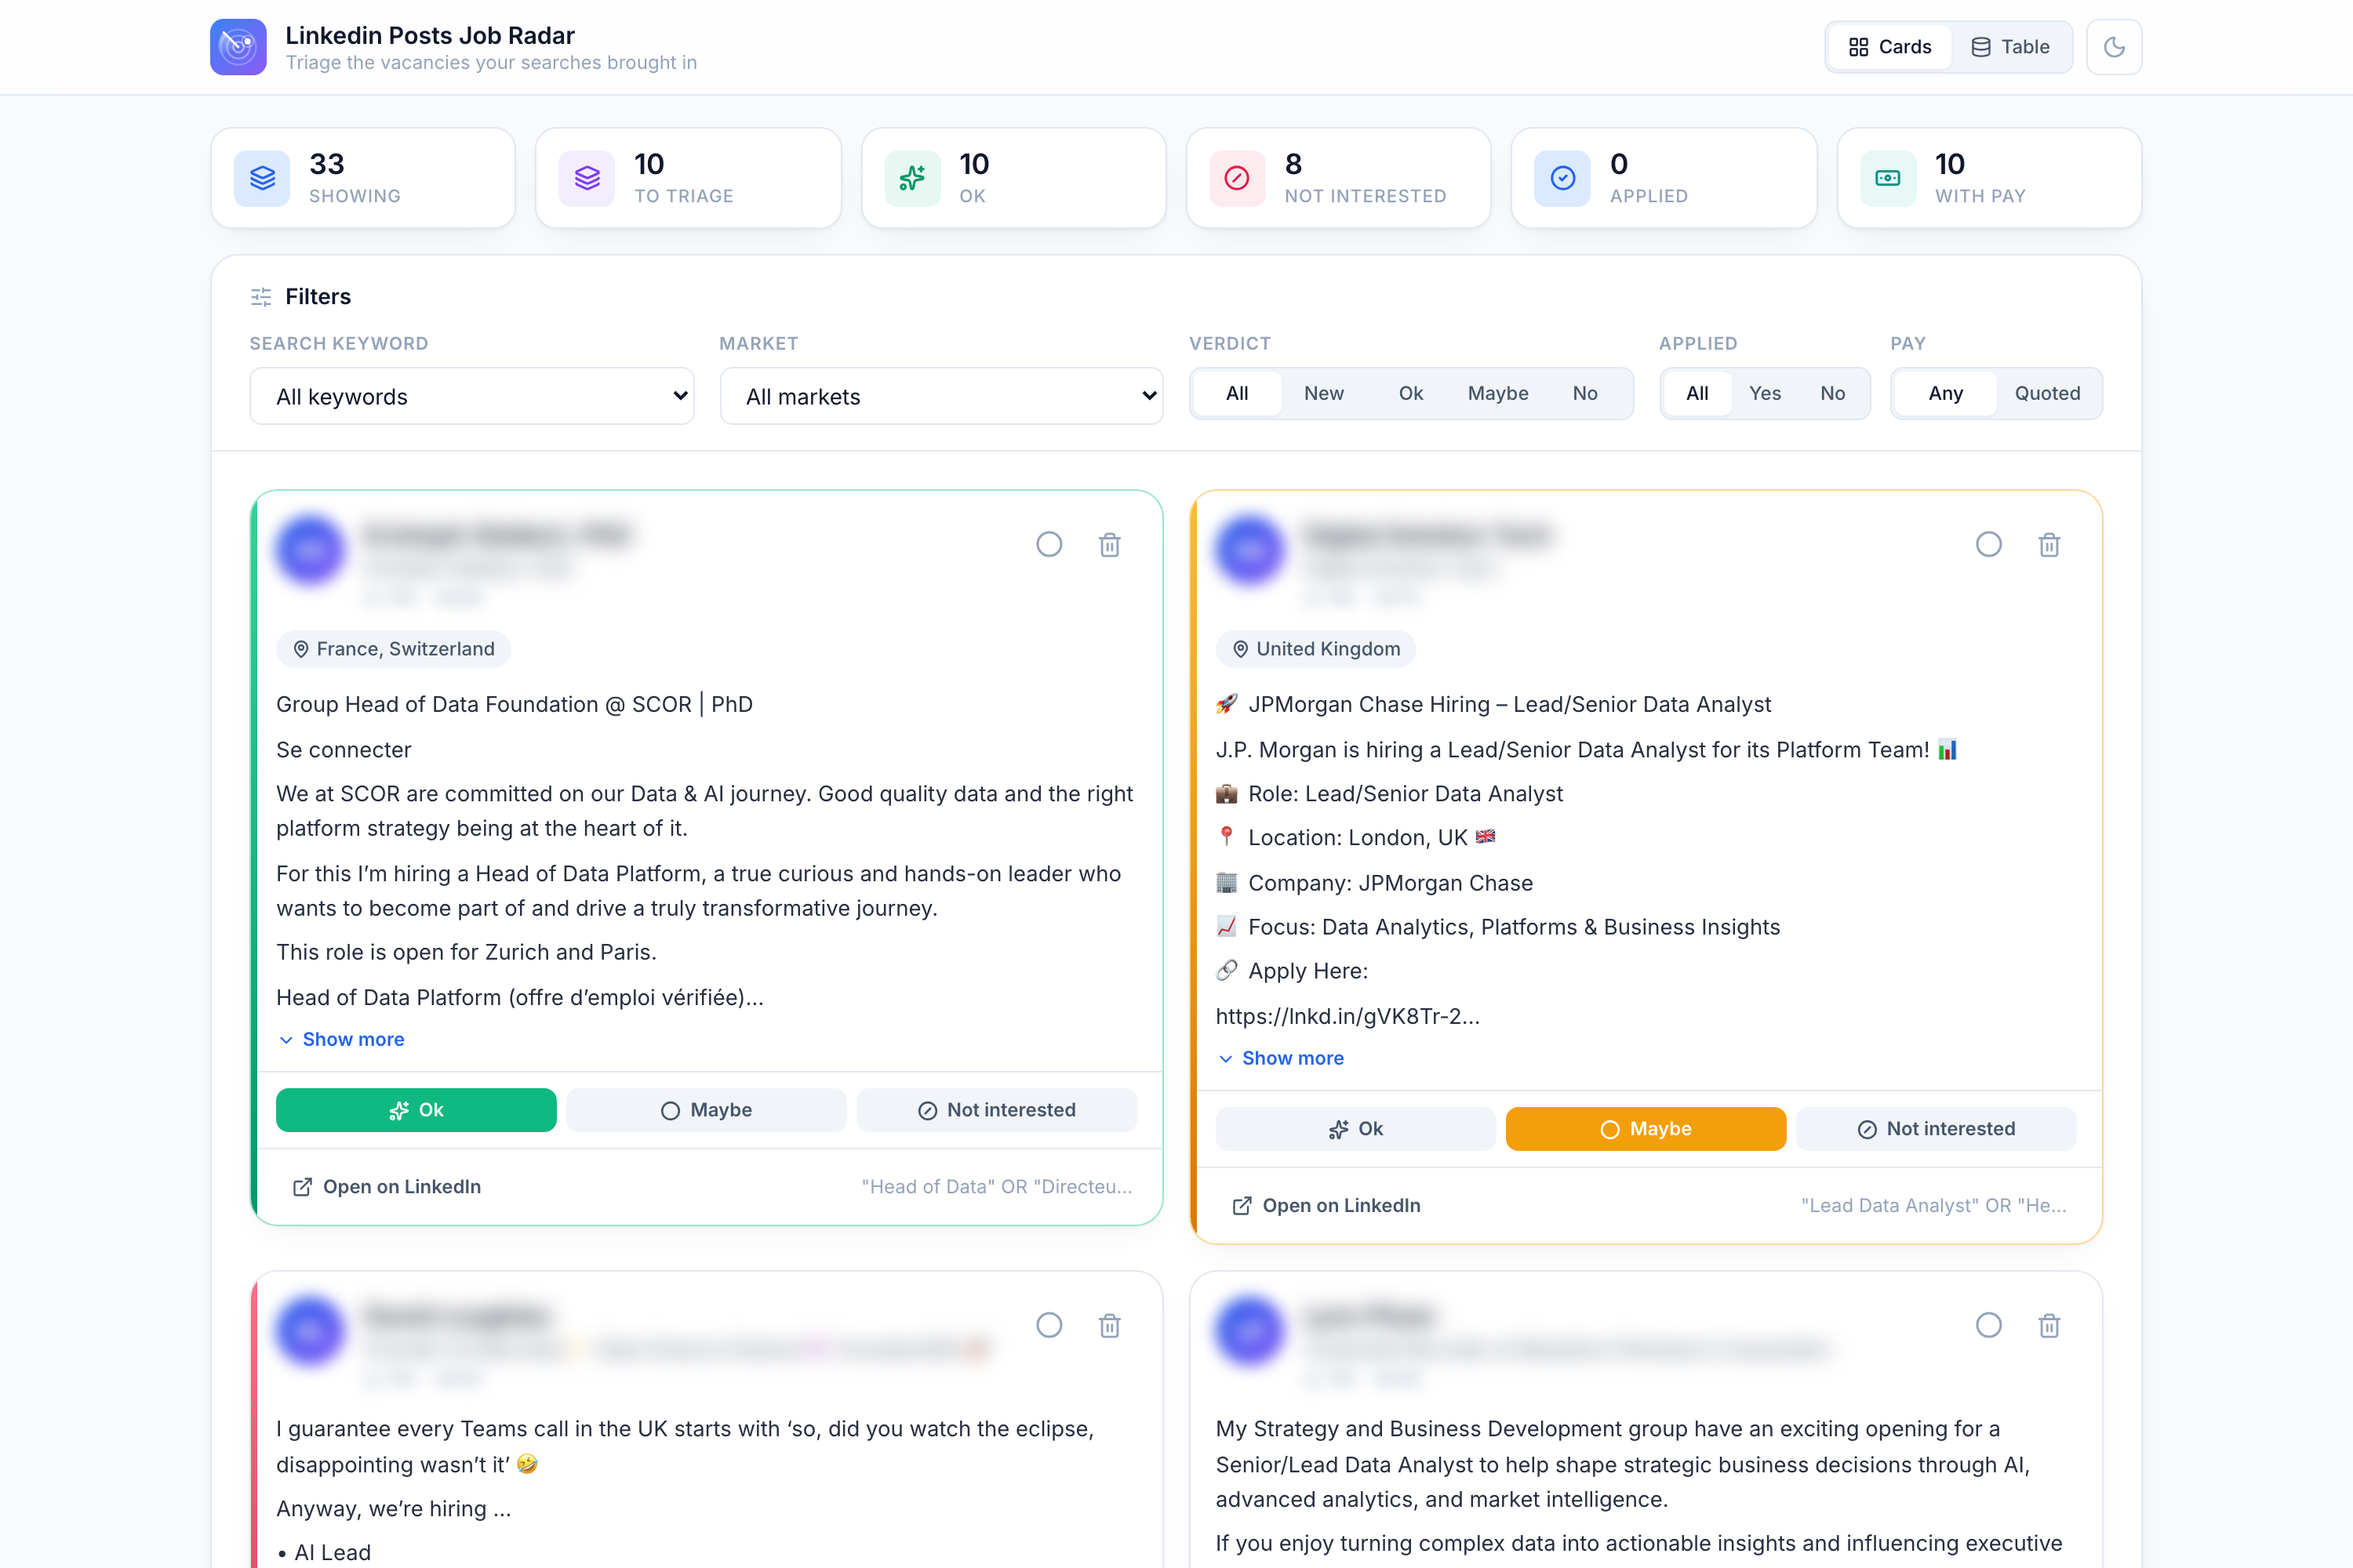
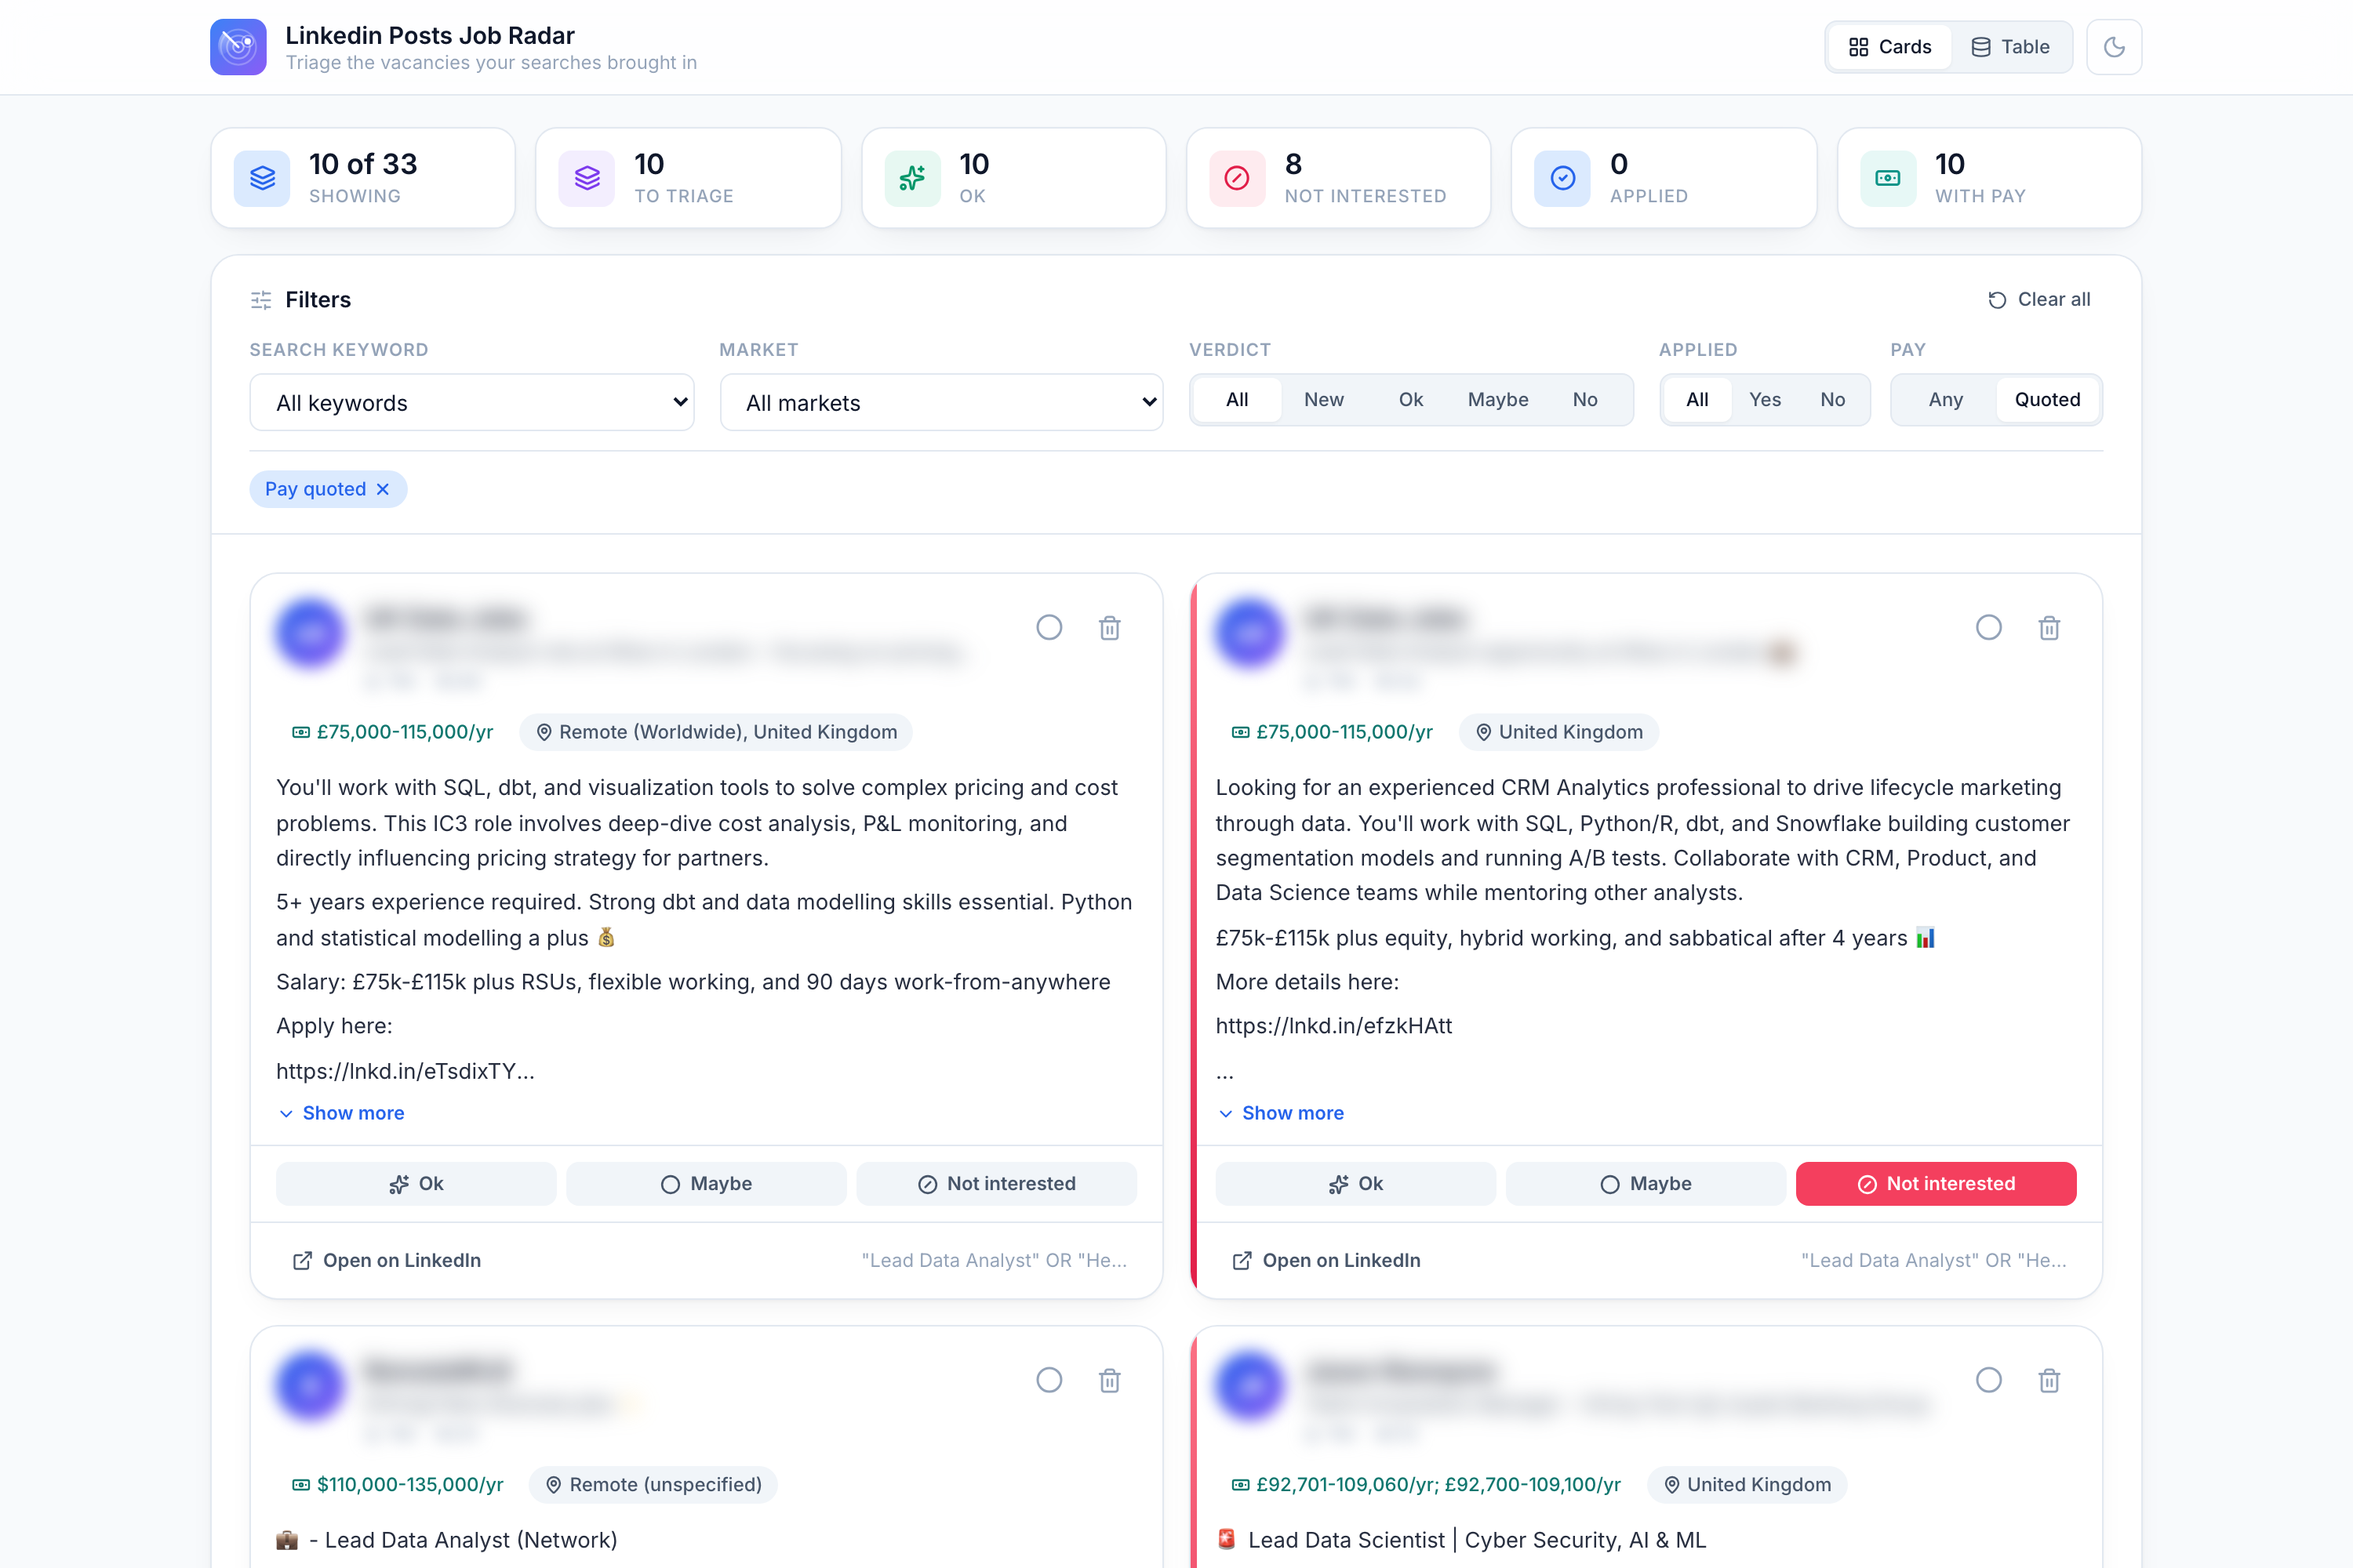
Retake screenshots filtered to posts that quote pay
Every card in the previous shots showed an em dash for salary, so the pay
column looked like a feature that never fires. Filter to posts quoting pay
before capturing, so each card carries both a pay badge and a market badge
and the table's salary column is populated.

diff --git a/README.md b/README.md
@@ -28,7 +28,7 @@ care about, and gives you a dashboard to sort what's left into **Ok**,
 Everything stays on your machine. No accounts, no servers, no data leaving your
 laptop.
 
-![The Linkedin Posts Job Radar dashboard](docs/dashboard.png)
+![The Linkedin Posts Job Radar dashboard, filtered to posts that quote pay](docs/dashboard.png)
 
 ---
 
